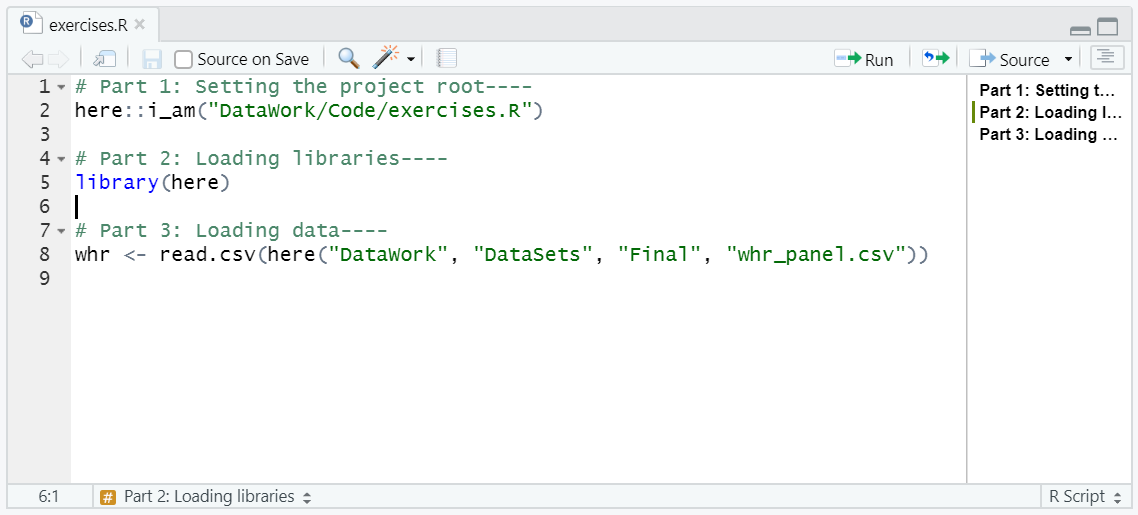
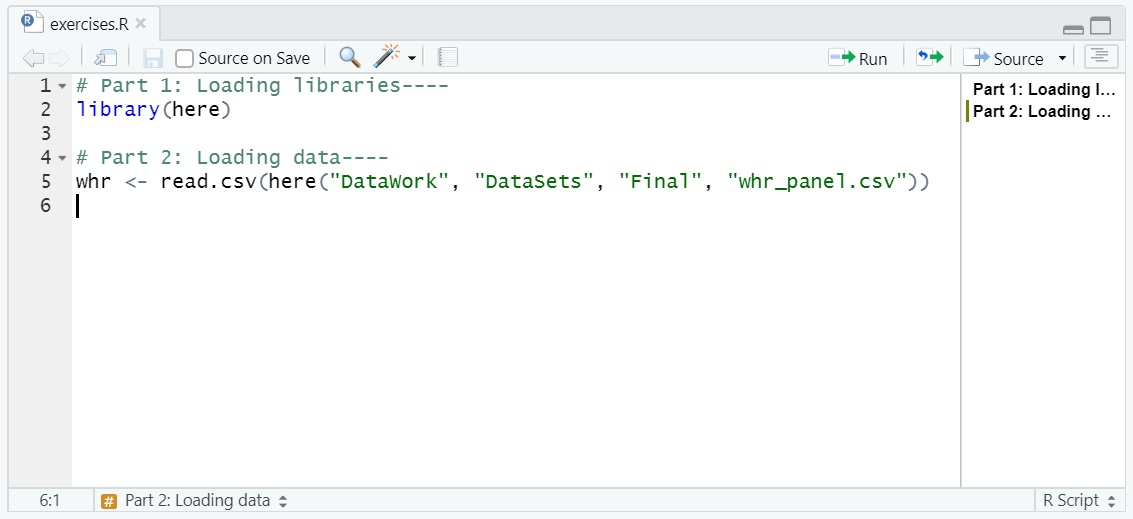
removed here::i_am() usage

diff --git a/Presentations/06-R-programming-practices.html b/Presentations/06-R-programming-practices.html
@@ -338,7 +338,7 @@ here::i_am("DataWork/Code/exercises.R")
 
 ```r
 library(here)
-whr &lt;- read.csv(here("DataWork", "DataSets", "Final", "whr_panel.csv))
+whr &lt;- read.csv(here("DataWork", "DataSets", "Final", "whr_panel.csv"))
 ```
 
 ---
@@ -941,7 +941,7 @@ zscore &lt;- function(x) {
 
 1. Use tidyverse's `select()` to select the columns `health_life_expectancy` and `freedom` in `whr`
 
-2. Use `sapply()` combined with the `zscore` function to get the z-score of this two columns
+2. Use `sapply()` combined with the `zscore` function to get the z-score of these two columns
   
 + Hint:
   * Use the pipes (`%&gt;%`) successively
